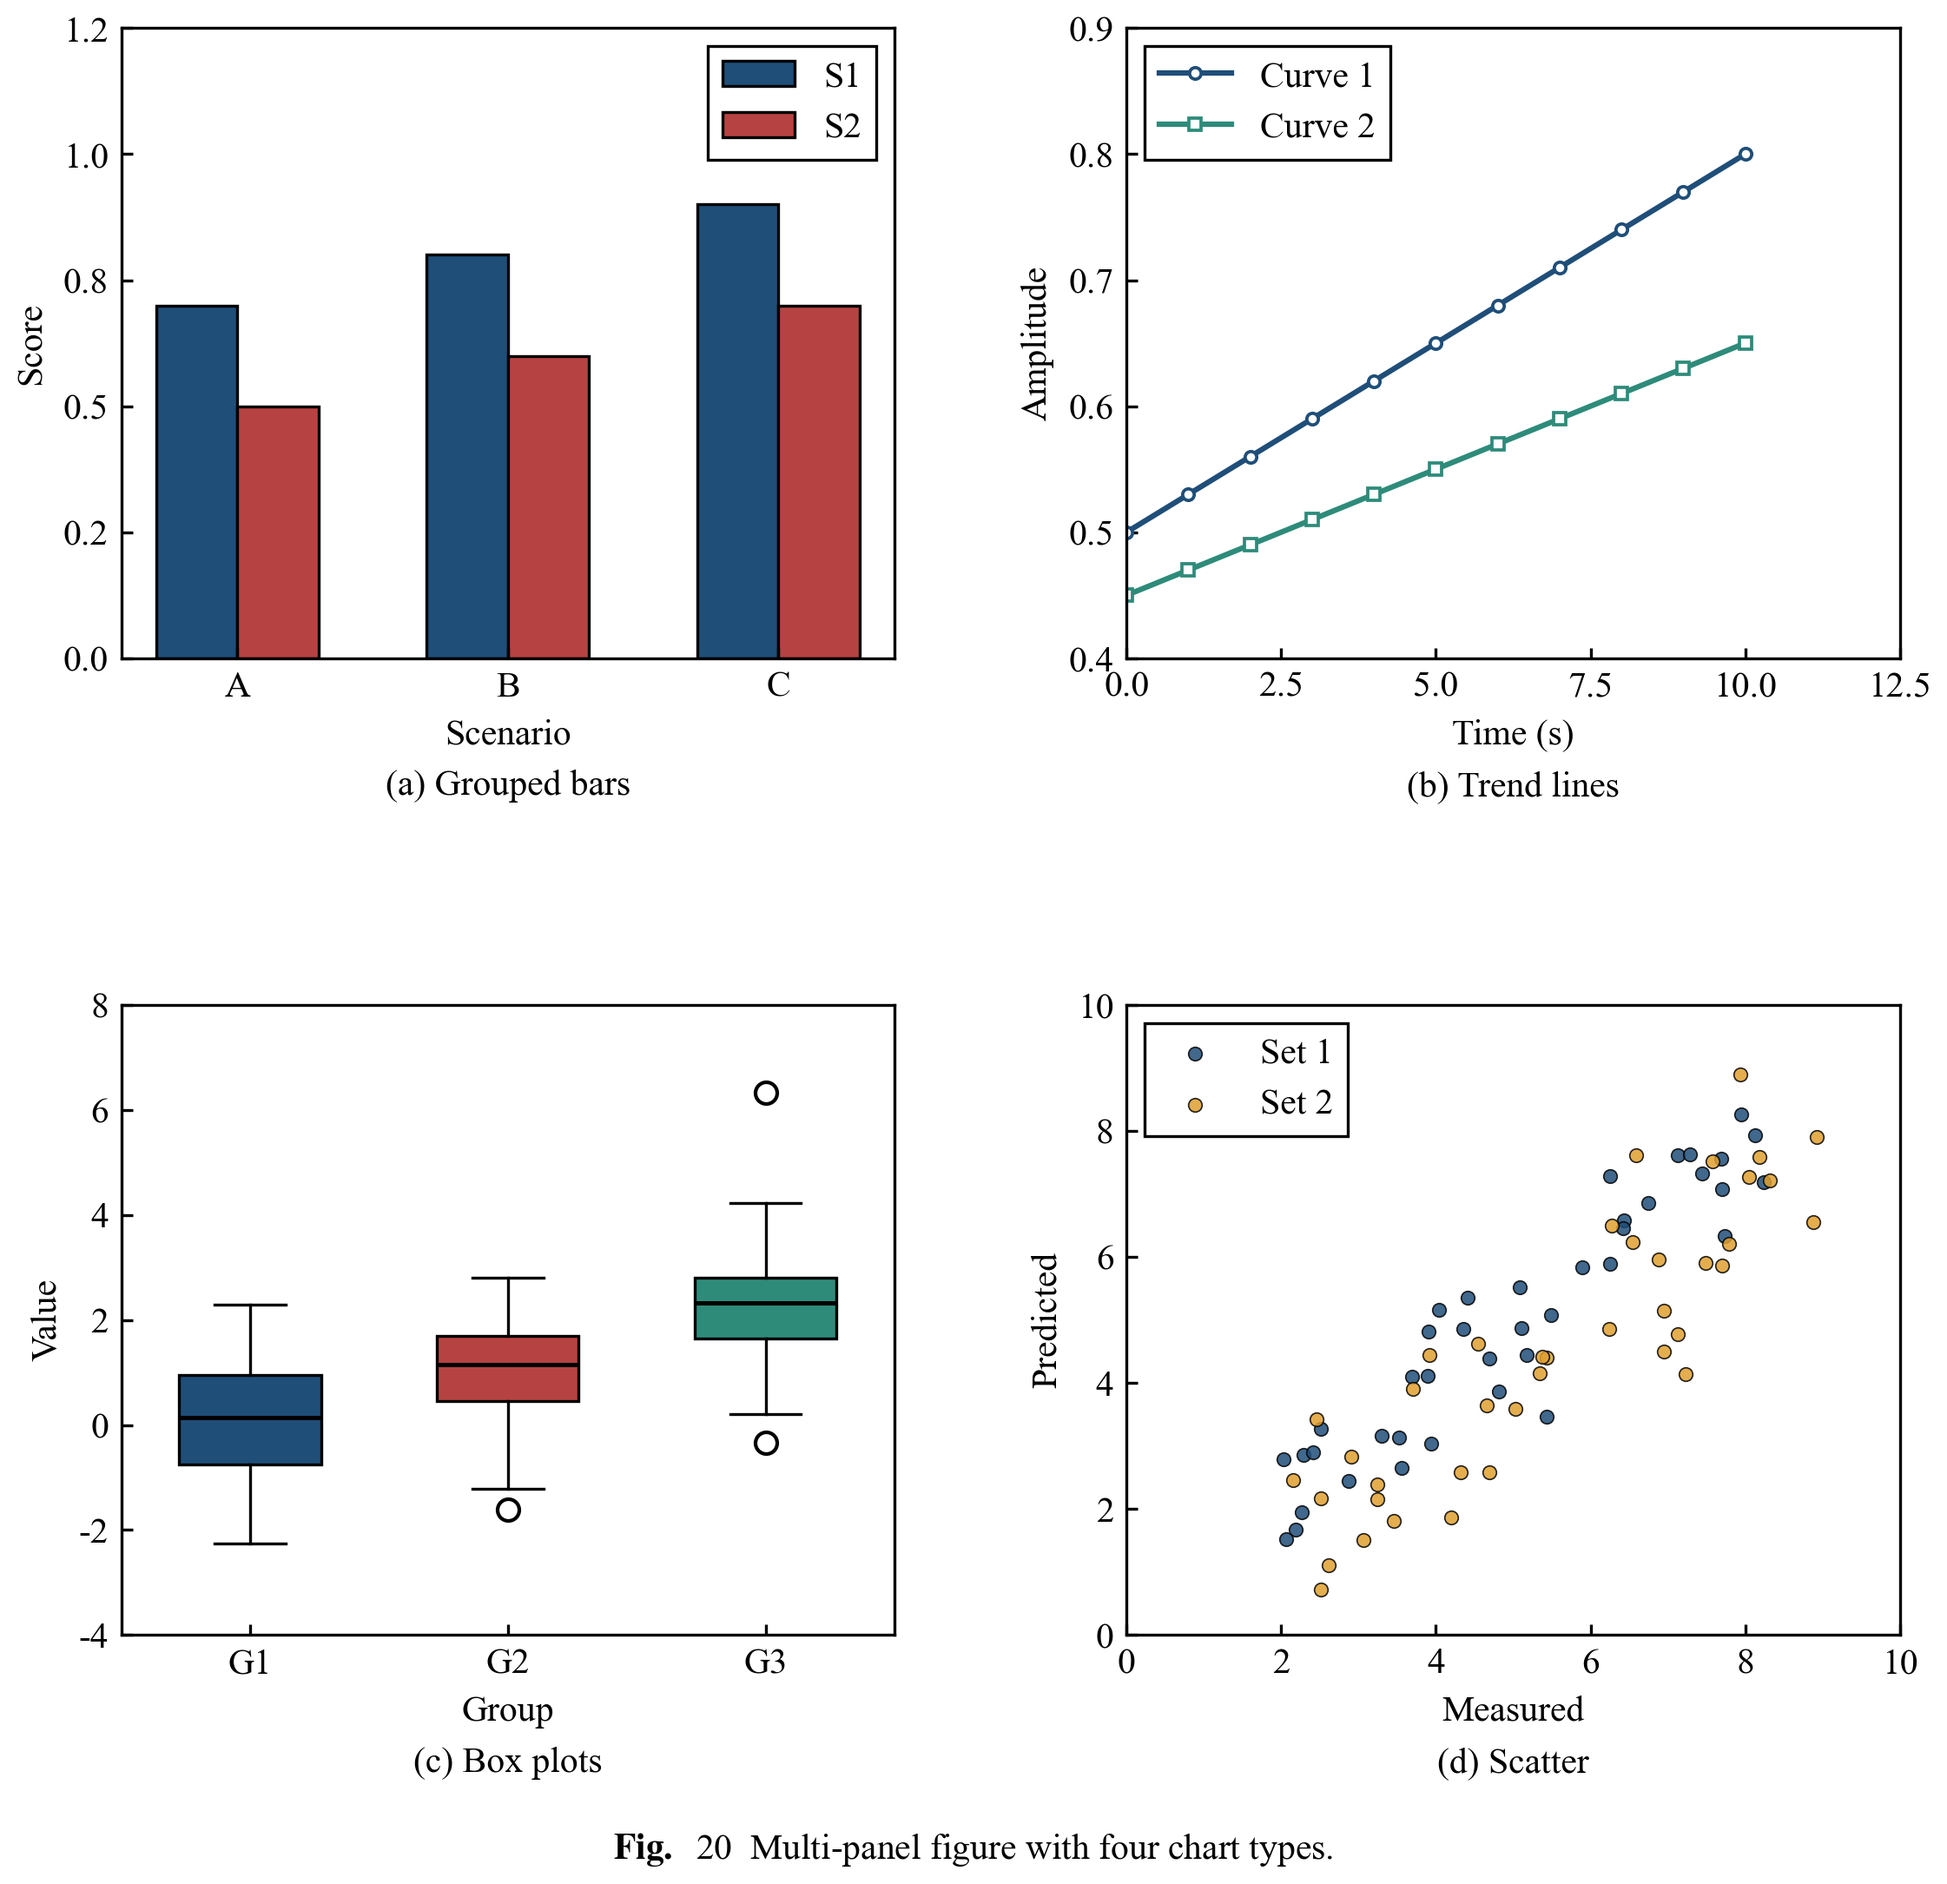
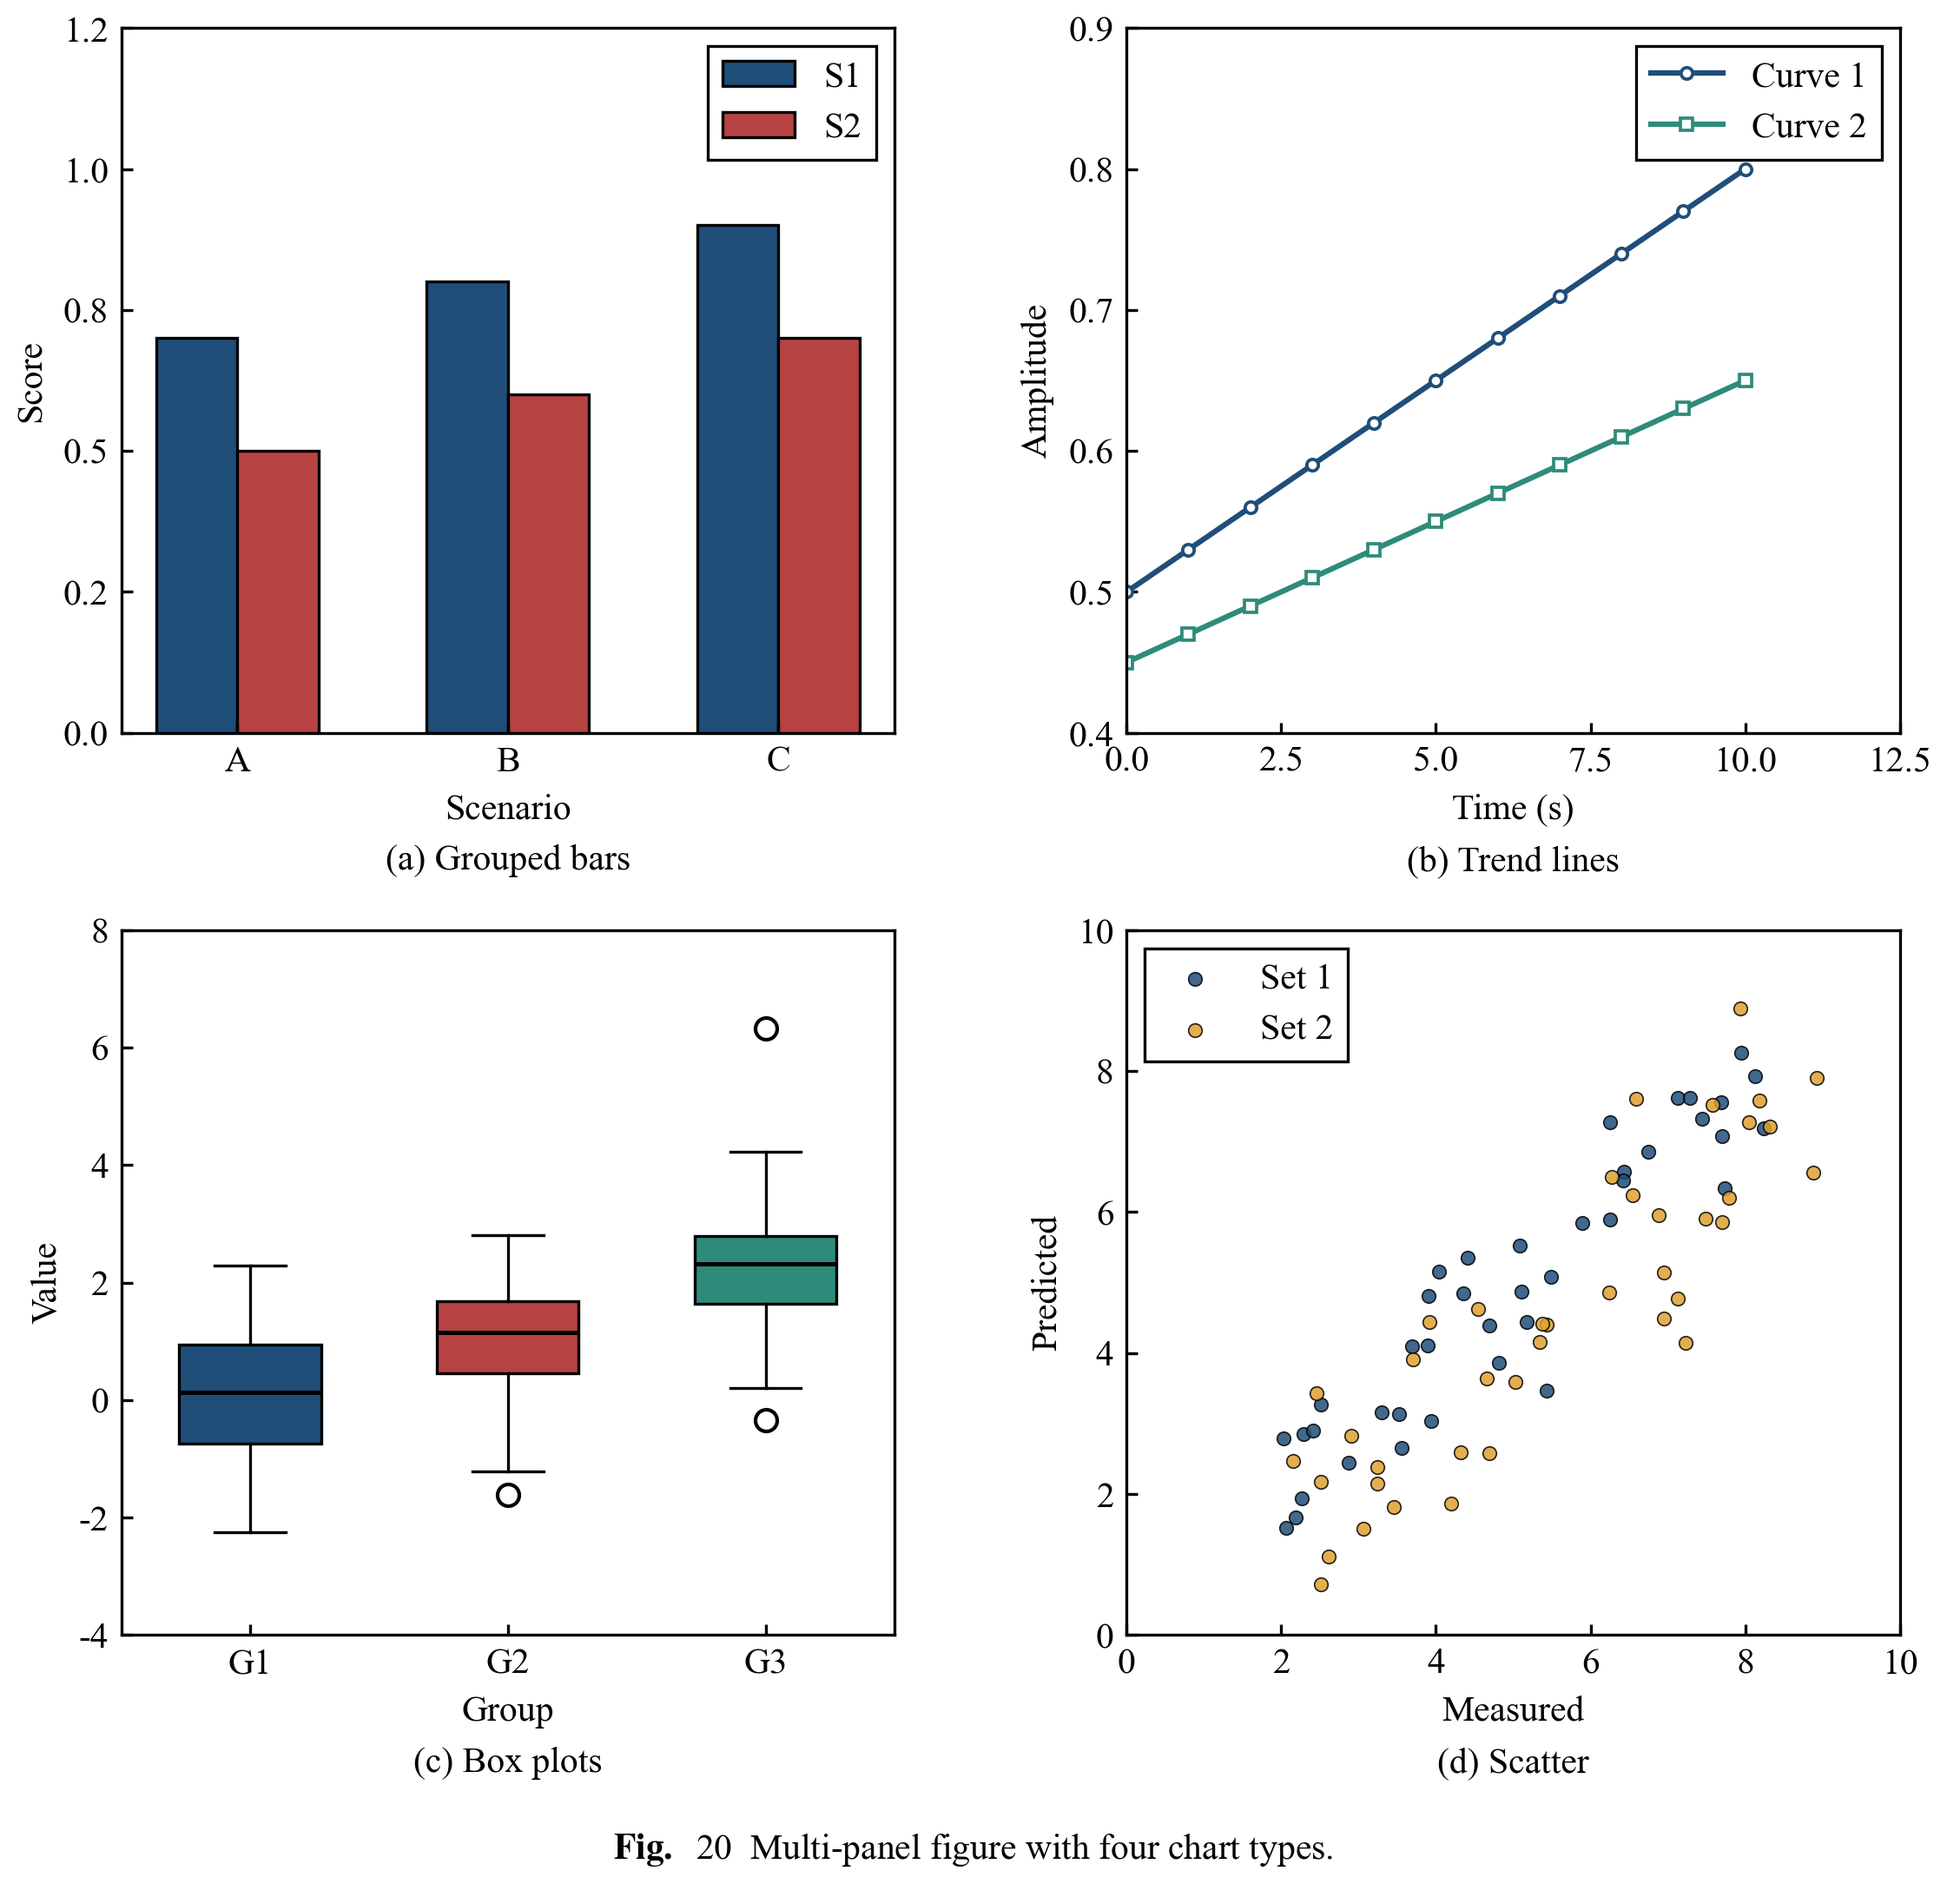
Tune the 2x2 grid row gap to match the caption gap
hspace=0.28 gives a 14 pt clearance between the top-row panel labels and the
bottom-row panels, the same as the 14 pt gap between the bottom-row labels and
the figure caption, instead of the previous 55 pt (too airy) or ~0 pt (touching).

diff --git a/examples/gallery.py b/examples/gallery.py
@@ -544,9 +544,9 @@ def fig_multi_panel():
     fig, axes = create_subplots(2, 2, figsize=WXL_FIGSIZE["double_tall"])
     fig._wxl_no_tight = True      # keep the manual centering
     fig._wxl_center = True        # centre the grid at every layout pass
-    # generous row/column gap so the top-row panel labels do not touch the
-    # bottom-row panels (labels sit 5 pt below their x-label)
-    fig.subplots_adjust(hspace=0.55, wspace=0.30)
+    # row/column gap tuned so the top-row panel labels sit ~14 pt above the
+    # bottom-row panels, matching the caption gap (add_caption_below, 14 pt)
+    fig.subplots_adjust(hspace=0.28, wspace=0.30)
 
     ax = axes[0]
     cats = ["A", "B", "C"]
